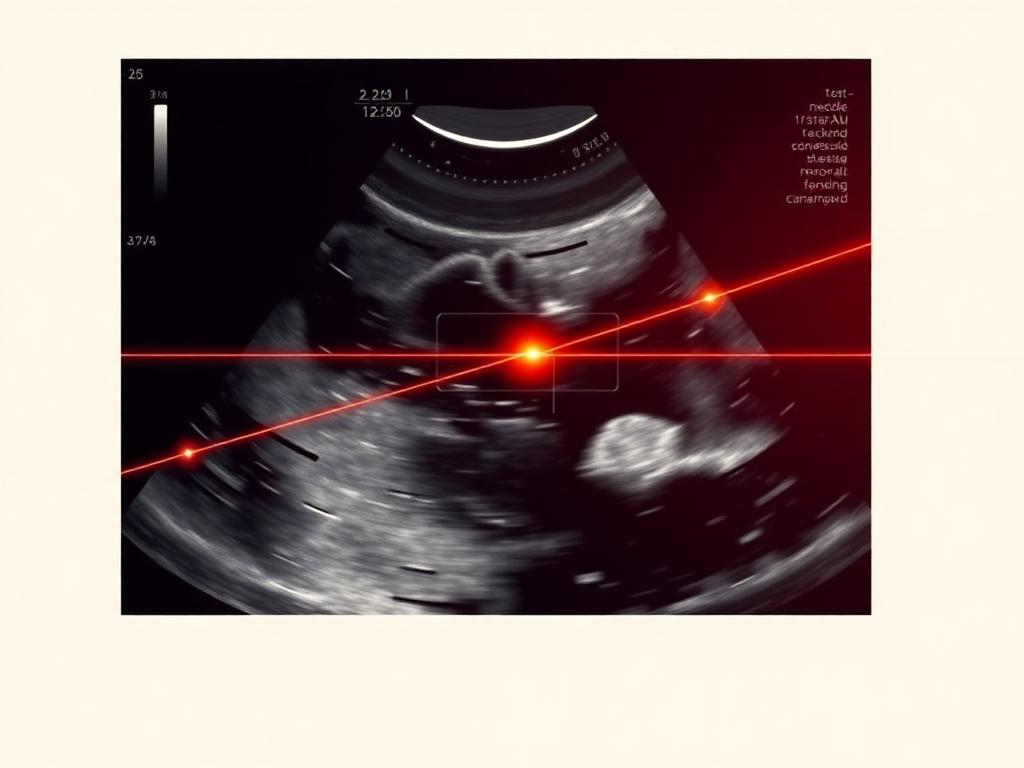
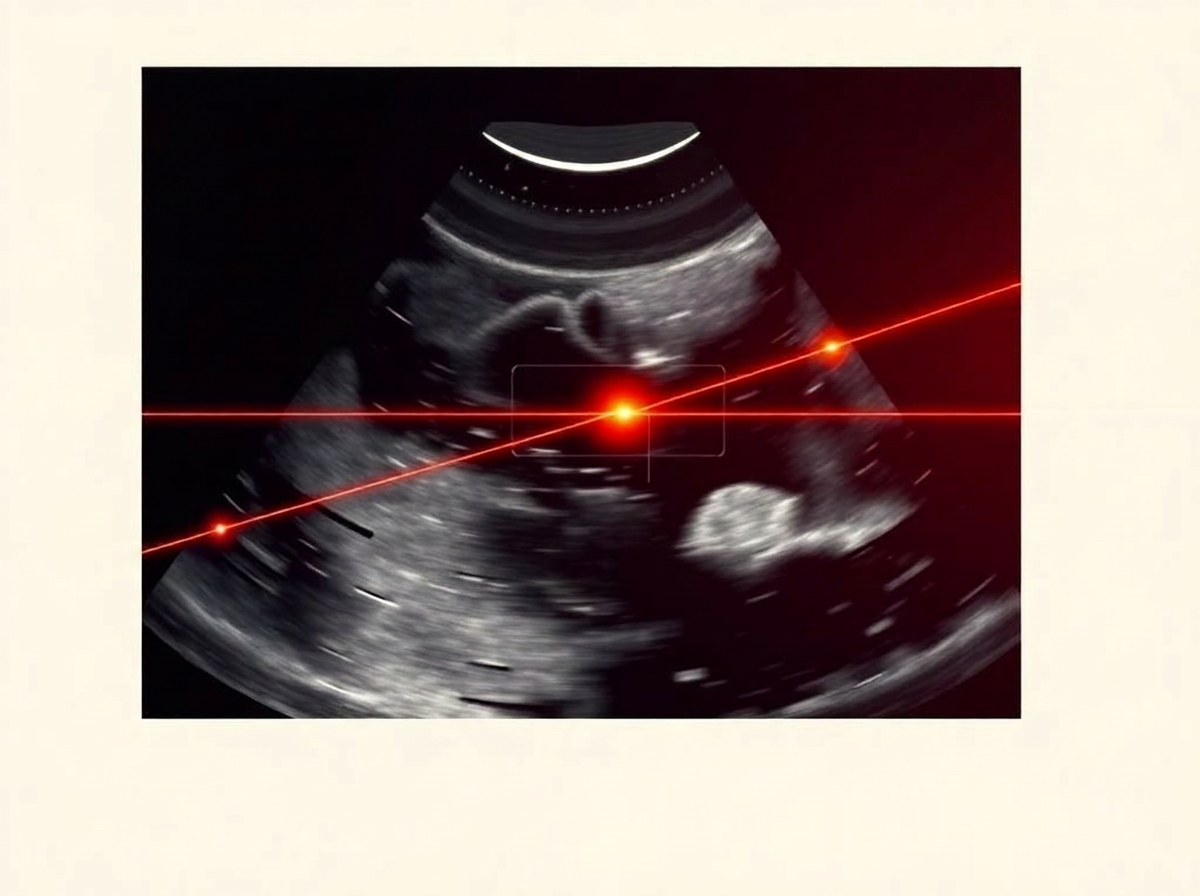
Changes

diff --git a/src/routes/projects.tsx b/src/routes/projects.tsx
@@ -1,67 +1,163 @@
 import { createFileRoute } from "@tanstack/react-router";
 import { PageShell, PageHeader } from "@/components/PageShell";
+import optocoderImg from "@/assets/proj-optocoder.jpg";
+import novosparcImg from "@/assets/proj-novosparc.png";
+import protbertImg from "@/assets/proj-protbert.jpg";
+import flowimgImg from "@/assets/proj-flowimg.jpg";
+import ultrasoundImg from "@/assets/proj-ultrasound.jpg";
+import cartitudeImg from "@/assets/proj-cartitude.jpg";
 
 export const Route = createFileRoute("/projects")({
   head: () => ({
     meta: [
       { title: "Projects — Enes Senel" },
-      { name: "description", content: "Open-source tools and research projects by Enes Senel: Optocoder, novoSpaRc, ML for medical robotics, and more." },
+      { name: "description", content: "In-depth project stories from Enes Senel: Optocoder, novoSpaRc, ProtBERT for anti-insecticidal proteins, flow-imaging deep learning, ultrasound needle tracking, and CARTITUDE-1 biomarker analysis." },
       { property: "og:title", content: "Projects — Enes Senel" },
-      { property: "og:description", content: "Open-source tools and research projects." },
+      { property: "og:description", content: "Stories behind the open-source tools and research projects." },
     ],
   }),
   component: Projects,
 });
 
+type Link = { label: string; href: string };
+
 type Project = {
+  slug: string;
   name: string;
-  blurb: string;
+  tagline: string;
+  period: string;
+  role: string;
+  image: string;
+  imageAlt: string;
+  story: string[];
+  details: { label: string; value: string }[];
   tags: string[];
-  href?: string;
-  span?: string;
-  accent?: boolean;
+  links?: Link[];
 };
 
 const projects: Project[] = [
   {
+    slug: "optocoder",
     name: "Optocoder",
-    blurb:
-      "Machine-learning pipeline for optical sequencing-based spatial transcriptomics — accurate decoding of barcoded transcripts directly from imaging data. Published in NAR Bioinformatics.",
-    tags: ["Python", "Spatial transcriptomics", "Open source"],
-    href: "https://github.com/rajewsky-lab/optocoder",
-    span: "md:col-span-2 md:row-span-2",
-    accent: true,
+    tagline: "Reading barcodes off a microscope.",
+    period: "2020 — 2022",
+    role: "Lead author · PhD project",
+    image: optocoderImg,
+    imageAlt: "Abstract illustration of fluorescent bead arrays",
+    story: [
+      "Optical sequencing-based spatial transcriptomics platforms (like Slide-Seq) record where every transcript came from by repeatedly imaging a slide of millions of barcoded beads. Turning those imaging cycles back into accurate barcodes is surprisingly hard — fluorescence bleeds, phasing drifts, and beads light up unevenly across cycles.",
+      "Optocoder is a Python pipeline that handles the whole decoding journey: aligning cycles, calling bases, modelling phasing/prephasing, and — when Illumina ground-truth is available — training a small ML module to push accuracy further. It was built around the realities of the Rajewsky Lab's wet-lab pipeline and is published in NAR Bioinformatics.",
+    ],
+    details: [
+      { label: "Stack", value: "Python · NumPy · scikit-learn · YAML configs" },
+      { label: "Output", value: "Decoded bead-to-barcode tables ready for downstream spatial analysis" },
+      { label: "License", value: "GPL-3.0" },
+    ],
+    tags: ["Spatial transcriptomics", "Imaging", "Machine learning", "Open source"],
+    links: [
+      { label: "GitHub", href: "https://github.com/rajewsky-lab/optocoder" },
+      { label: "Paper (NAR Bioinformatics)", href: "https://academic.oup.com/nargab/article/4/4/lqac042/6611715" },
+    ],
   },
   {
+    slug: "novosparc",
     name: "novoSpaRc",
-    blurb:
-      "Flexible spatial reconstruction of single-cell gene expression using optimal transport. Co-first author; published in Nature Protocols.",
-    tags: ["Python", "Optimal transport", "Open source"],
-    href: "https://github.com/rajewsky-lab/novosparc",
+    tagline: "Putting cells back where they came from.",
+    period: "2020 — 2021",
+    role: "Co-first author",
+    image: novosparcImg,
+    imageAlt: "novoSpaRc spatial reconstruction visualization",
+    story: [
+      "Single-cell RNA-seq tells you what every cell is doing, but dissociation throws away where each cell was sitting in the tissue. novoSpaRc reconstructs that spatial structure de novo, using optimal transport to find the arrangement of cells that best explains both their expression similarity and any partial spatial reference you can provide.",
+      "I co-led the 2021 release published in Nature Protocols — focused on scalability, making the algorithm tractable on larger tissues and higher-resolution maps, and a tutorial-driven API biologists actually use. The library has grown a real community (133★, 42 forks at last check) and is taught in spatial-omics courses.",
+    ],
+    details: [
+      { label: "Method", value: "Optimal transport over expression + reference manifolds" },
+      { label: "Stack", value: "Python · Jupyter · POT · scanpy-compatible" },
+      { label: "Companion paper", value: "Gene Expression Cartography, Nature (2019)" },
+    ],
+    tags: ["Spatial reconstruction", "Optimal transport", "Open source"],
+    links: [
+      { label: "GitHub", href: "https://github.com/rajewsky-lab/novosparc" },
+      { label: "Nature Protocols paper", href: "https://www.nature.com/articles/s41596-021-00573-7" },
+      { label: "Docs", href: "https://novosparc.readthedocs.io/" },
+    ],
   },
   {
-    name: "3D tissue expression IP",
-    blurb:
-      "US patent for a method and system to computationally reconstruct 3D tissue gene-expression data (US20240257914A1).",
-    tags: ["Patent", "Spatial"],
-  },
-  {
+    slug: "protbert",
     name: "ProtBERT for anti-insecticidals",
-    blurb:
-      "Pipeline using pre-trained protein LLMs (ProtBERT) to identify novel anti-insecticidal proteins from raw sequence data, with biological priors for interpretability.",
-    tags: ["LLMs", "Proteomics"],
+    tagline: "Protein language models meet agricultural biology.",
+    period: "Feb 2023 — Apr 2023",
+    role: "Visiting scientist, Hebrew University of Jerusalem",
+    image: protbertImg,
+    imageAlt: "Abstract protein chain with attention pattern",
+    story: [
+      "During a research visit at the Hebrew University of Jerusalem, I built a machine-learning pipeline that uses pre-trained protein language models (ProtBERT) to identify novel anti-insecticidal proteins directly from raw sequence data.",
+      "The interesting part wasn't the model — it was the integration. I combined transformer embeddings with biological domain knowledge so predictions could be interpreted by biologists and prioritised for experimental validation rather than treated as a black-box ranking.",
+    ],
+    details: [
+      { label: "Models", value: "ProtBERT (HuggingFace) + custom classification heads" },
+      { label: "Inputs", value: "Raw amino-acid sequences from environmental samples" },
+      { label: "Goal", value: "Shortlist candidates for wet-lab validation" },
+    ],
+    tags: ["LLMs", "Proteomics", "AgBio", "Research visit"],
   },
   {
+    slug: "flow-imaging",
     name: "Flow-imaging deep learning",
-    blurb:
-      "Deep-learning system for automated particle detection and classification in cell-based medicinal products from flow microscopy images.",
-    tags: ["PyTorch", "Cytotherapy"],
+    tagline: "Counting what shouldn't be there.",
+    period: "Apr 2019 — Sep 2019",
+    role: "ML Research Student, Coriolis Pharma",
+    image: flowimgImg,
+    imageAlt: "Abstract particles in suspension",
+    story: [
+      "Cell-based medicinal products must be screened for unwanted particulate impurities. Flow imaging microscopy generates thousands of particle images per sample — far too many for manual review, and too varied for classical thresholding to do reliably.",
+      "I built an end-to-end deep-learning system at Coriolis Pharma: data ingestion, training, evaluation, and a clean Python package wrapped around PyTorch/TensorFlow so scientists could retrain and audit it. The work was later published in Cytotherapy as part of a collaboration with Leiden University.",
+    ],
+    details: [
+      { label: "Stack", value: "Python · PyTorch · TensorFlow · classical CV preprocessing" },
+      { label: "Domain", value: "Cell therapy QC / particulate analysis" },
+      { label: "Paper", value: "Grabarek, Senel et al., Cytotherapy (2021)" },
+    ],
+    tags: ["Computer vision", "Pharma QC", "Deep learning"],
   },
   {
+    slug: "ultrasound",
     name: "Ultrasound needle tracking",
-    blurb:
-      "Real-time needle tip localization in 2D ultrasound for robotic biopsy — C++/CUDA implementation feeding live feedback to clinicians.",
-    tags: ["C++", "CUDA", "Robotics"],
+    tagline: "Robotic biopsy, in real time.",
+    period: "2014 — 2016",
+    role: "Undergraduate researcher, Ozyegin Robotics Lab",
+    image: ultrasoundImg,
+    imageAlt: "Abstract ultrasound texture with trajectory line",
+    story: [
+      "My first taste of research was building real-time needle-tip localization for an autonomous robotic biopsy system. The robot followed an ultrasound image stream; my algorithms tracked the needle inside that stream so the controller could keep it on target.",
+      "I wrote the C++/CUDA software interface clinicians used during testing, did the Gabor-filter work for needle detection in 2D ultrasound, and contributed to four conference and journal papers (ICRA 2016, ICRA 2017, ICAR 2015, Mechatronics 2019, plus a 2020 TJEECS paper on curved-needle localization).",
+    ],
+    details: [
+      { label: "Stack", value: "C++ · CUDA · OpenCV" },
+      { label: "Application", value: "Image-guided biopsy robotics" },
+      { label: "Publications", value: "ICRA × 2, ICAR, Mechatronics, TJEECS" },
+    ],
+    tags: ["Medical robotics", "Computer vision", "Real-time systems"],
+  },
+  {
+    slug: "cartitude",
+    name: "CARTITUDE-1 biomarker analysis",
+    tagline: "Single-cell signals behind a CAR-T response.",
+    period: "2024 — 2025",
+    role: "Data Scientist → Senior Scientist, J&J Innovative Medicine",
+    image: cartitudeImg,
+    imageAlt: "Abstract single-cell clustering visualization",
+    story: [
+      "CARTITUDE-1 is the phase 1b/2 study of ciltacabtagene autoleucel (cilta-cel) in relapsed/refractory multiple myeloma. I contributed to the biomarker work — integrating single-cell transcriptomic, proteomic, and clinical readouts to understand which patients respond and why.",
+      "The collaboration spans clinical, translational, and manufacturing teams; the manuscript is currently under revision at Blood Cancer Discovery.",
+    ],
+    details: [
+      { label: "Modalities", value: "scRNA-seq · CITE-seq · clinical metadata" },
+      { label: "Pipelines", value: "Python · Nextflow · scanpy/scvi-tools" },
+      { label: "Status", value: "Manuscript under revision — Blood Cancer Discovery" },
+    ],
+    tags: ["Single-cell", "Multi-omics", "Cell therapy", "Clinical"],
   },
 ];
 
@@ -70,64 +166,87 @@ function Projects() {
     <PageShell>
       <PageHeader
         eyebrow="Projects"
-        title="Tools I've built, mostly for science."
-        lead="A mix of open-source bioinformatics tools, ML systems for industry collaborations, and research code that escaped the lab notebook."
+        title="The stories behind the code."
+        lead="A working portfolio of open-source bioinformatics tools, industry ML systems, and research collaborations — each with the context that gives the code meaning."
       />
 
       <section className="container-prose pb-24">
-        <div className="grid auto-rows-[minmax(200px,auto)] gap-5 md:grid-cols-3">
-          {projects.map((p) => {
-            const Inner = (
-              <>
-                <div>
-                  <h3
-                    className={`font-display text-2xl font-medium ${
-                      p.accent ? "text-primary-foreground" : "text-foreground"
-                    }`}
-                  >
-                    {p.name}
-                  </h3>
-                  <p
-                    className={`mt-3 leading-relaxed ${
-                      p.accent ? "text-primary-foreground/85" : "text-muted-foreground"
-                    }`}
-                  >
-                    {p.blurb}
-                  </p>
+        <div className="space-y-16">
+          {projects.map((p, i) => (
+            <article
+              key={p.slug}
+              id={p.slug}
+              className="grid scroll-mt-24 gap-8 border-t border-border pt-12 md:grid-cols-12 md:gap-12"
+            >
+              <div
+                className={`md:col-span-6 ${
+                  i % 2 === 1 ? "md:order-2" : ""
+                }`}
+              >
+                <div className="overflow-hidden rounded-3xl border border-border bg-card shadow-[0_30px_70px_-40px_color-mix(in_oklab,var(--sienna)_55%,transparent)]">
+                  <img
+                    src={p.image}
+                    alt={p.imageAlt}
+                    width={1024}
+                    height={768}
+                    loading="lazy"
+                    className="aspect-[4/3] w-full object-cover"
+                  />
                 </div>
+                <dl className="mt-6 grid grid-cols-1 gap-3 sm:grid-cols-2">
+                  {p.details.map((d) => (
+                    <div
+                      key={d.label}
+                      className="rounded-xl border border-border bg-card/60 px-4 py-3"
+                    >
+                      <dt className="eyebrow">{d.label}</dt>
+                      <dd className="mt-1 text-sm text-foreground">{d.value}</dd>
+                    </div>
+                  ))}
+                </dl>
+              </div>
+
+              <div className="md:col-span-6">
+                <p className="eyebrow">{p.period} · {p.role}</p>
+                <h2 className="mt-3 font-display text-3xl font-medium leading-tight text-foreground md:text-4xl">
+                  {p.name}
+                </h2>
+                <p className="mt-2 font-display text-xl text-sienna">{p.tagline}</p>
+                <div className="mt-6 space-y-4 text-foreground/90">
+                  {p.story.map((para, idx) => (
+                    <p key={idx} className="leading-relaxed">{para}</p>
+                  ))}
+                </div>
+
                 <ul className="mt-6 flex flex-wrap gap-2">
                   {p.tags.map((t) => (
                     <li
                       key={t}
-                      className={`rounded-full px-3 py-1 text-xs ${
-                        p.accent
-                          ? "bg-primary-foreground/15 text-primary-foreground"
-                          : "bg-muted text-muted-foreground"
-                      }`}
+                      className="rounded-full bg-muted px-3 py-1 text-xs text-muted-foreground"
                     >
                       {t}
                     </li>
                   ))}
                 </ul>
-              </>
-            );
 
-            const classes = `group flex flex-col justify-between rounded-2xl border border-border p-6 transition-shadow hover:shadow-[0_25px_60px_-35px_color-mix(in_oklab,var(--sienna)_60%,transparent)] ${
-              p.accent
-                ? "bg-gradient-to-br from-primary to-sienna text-primary-foreground"
-                : "bg-card"
-            } ${p.span ?? ""}`;
-
-            return p.href ? (
-              <a key={p.name} href={p.href} target="_blank" rel="noreferrer" className={classes}>
-                {Inner}
-              </a>
-            ) : (
-              <article key={p.name} className={classes}>
-                {Inner}
-              </article>
-            );
-          })}
+                {p.links && (
+                  <div className="mt-6 flex flex-wrap gap-3">
+                    {p.links.map((l) => (
+                      <a
+                        key={l.href}
+                        href={l.href}
+                        target="_blank"
+                        rel="noreferrer"
+                        className="inline-flex items-center gap-2 rounded-full border border-border bg-card px-4 py-2 text-sm font-medium text-foreground transition-colors hover:bg-muted"
+                      >
+                        {l.label} <span aria-hidden>→</span>
+                      </a>
+                    ))}
+                  </div>
+                )}
+              </div>
+            </article>
+          ))}
         </div>
       </section>
     </PageShell>
